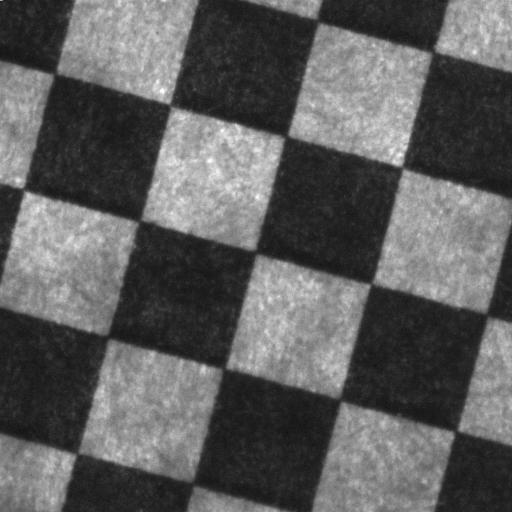
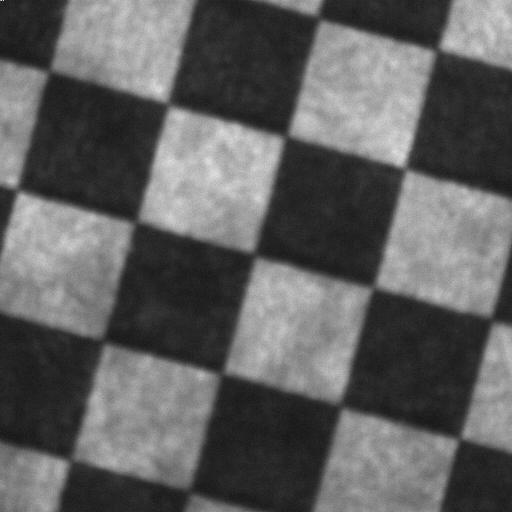
updated calibration

diff --git a/flybam/flybam/flybam.cpp b/flybam/flybam/flybam.cpp
@@ -7,6 +7,8 @@ using namespace std;
 using namespace FlyCapture2;
 using namespace cv;
 
+#define BASE_HEIGHT 3.175-3.9
+
 bool stream = true;
 bool flyview_track = false;
 bool flyview_record = false;
@@ -55,9 +57,8 @@ Mat rotateImage(Mat src, double angle)
 
 Mat refineFlyCenter(Mat pt, Point2f p)
 {
-	float scale = 2.5 / 119.502083;
-	//float angle = 15 * 180 / PI;
-
+	float scale = 2.0 / 122.753057;
+	
 	p.x -= 256;
 	p.y -= 256;
 
@@ -83,7 +84,7 @@ Mat backProject(Point2f p, Mat cameraMatrix, Mat rotationMatrix, Mat tvec)
 
 	tempMat = rotationMatrix.inv() * cameraMatrix.inv() * uvPoint;
 	tempMat2 = rotationMatrix.inv() * tvec;
-	s = 3.175 + tempMat2.at<double>(2, 0); //height Zconst is zero
+	s = BASE_HEIGHT + tempMat2.at<double>(2, 0); //height Zconst is zero
 	s /= tempMat.at<double>(2, 0);
 
 	Mat pt = rotationMatrix.inv() * (s * cameraMatrix.inv() * uvPoint - tvec);
@@ -101,7 +102,7 @@ Mat backProject(Point2f p, Mat cameraMatrix, Mat rotationMatrix, Mat tvec)
 //	vector<Point3f> p3d;
 //	vector<Point2f> p2d;
 //
-//	p3d.push_back(Point3f((float)pt.at<double>(0, 0), (float)pt.at<double>(1, 0), 3.175));
+//	p3d.push_back(Point3f((float)pt.at<double>(0, 0), (float)pt.at<double>(1, 0), BASE_HEIGHT));
 //	projectPoints(p3d, rvec, tvec, cameraMatrix, distCoeffs, p2d);
 //
 //	return p2d;
@@ -118,7 +119,7 @@ RotatedRect createArenaMask(Mat cameraMatrix, Mat distCoeffs, Mat rvec, Mat tvec
 	RotatedRect circleMask;
 
 	for (double angle = 0; angle <= 2 * PI; angle += 0.001)//You are using radians so you will have to increase by a very small amount
-		c3d.push_back(Point3f(center.x + radius*cos(angle), center.y + radius*sin(angle), 3.175));
+		c3d.push_back(Point3f(center.x + radius*cos(angle), center.y + radius*sin(angle), BASE_HEIGHT));
 
 	projectPoints(c3d, rvec, tvec, cameraMatrix, distCoeffs, c2d);
 

diff --git a/flybam/flybam/tracker.cpp b/flybam/flybam/tracker.cpp
@@ -15,7 +15,7 @@ Tracker::Tracker(float x, float y)
     KF.transitionMatrix = *(Mat_<float>(4, 4) << 1,0,1,0,   0,1,0,1,  0,0,1,0,  0,0,0,1);
 
 	setIdentity(KF.measurementMatrix);
-    setIdentity(KF.processNoiseCov, Scalar::all(1e-4));		//adjust this for faster convergence - but higher noise (default: 1e-2)
+    setIdentity(KF.processNoiseCov, Scalar::all(1e-3));		//adjust this for faster convergence - but higher noise (default: 1e-2)
     setIdentity(KF.measurementNoiseCov, Scalar::all(1e-1));
     setIdentity(KF.errorCovPost, Scalar::all(0.1));
 }
